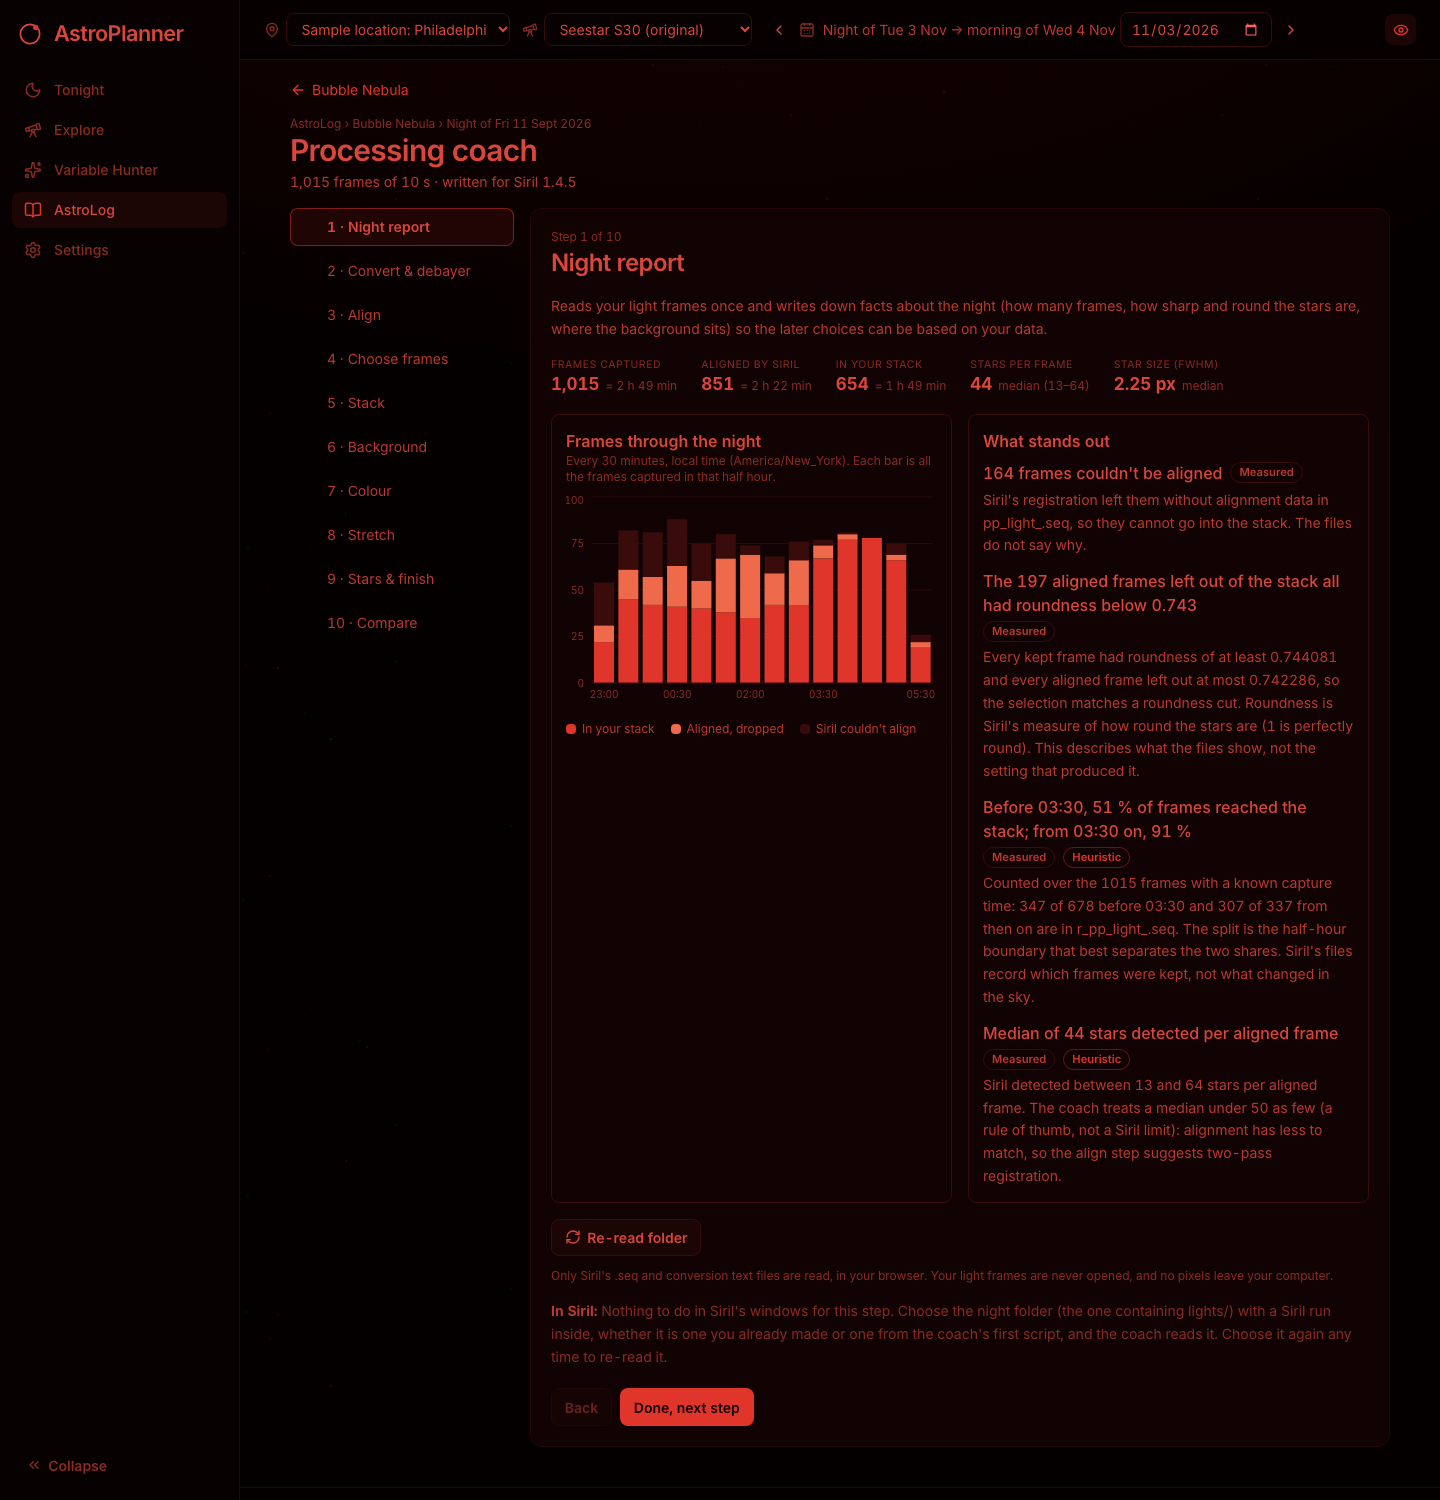
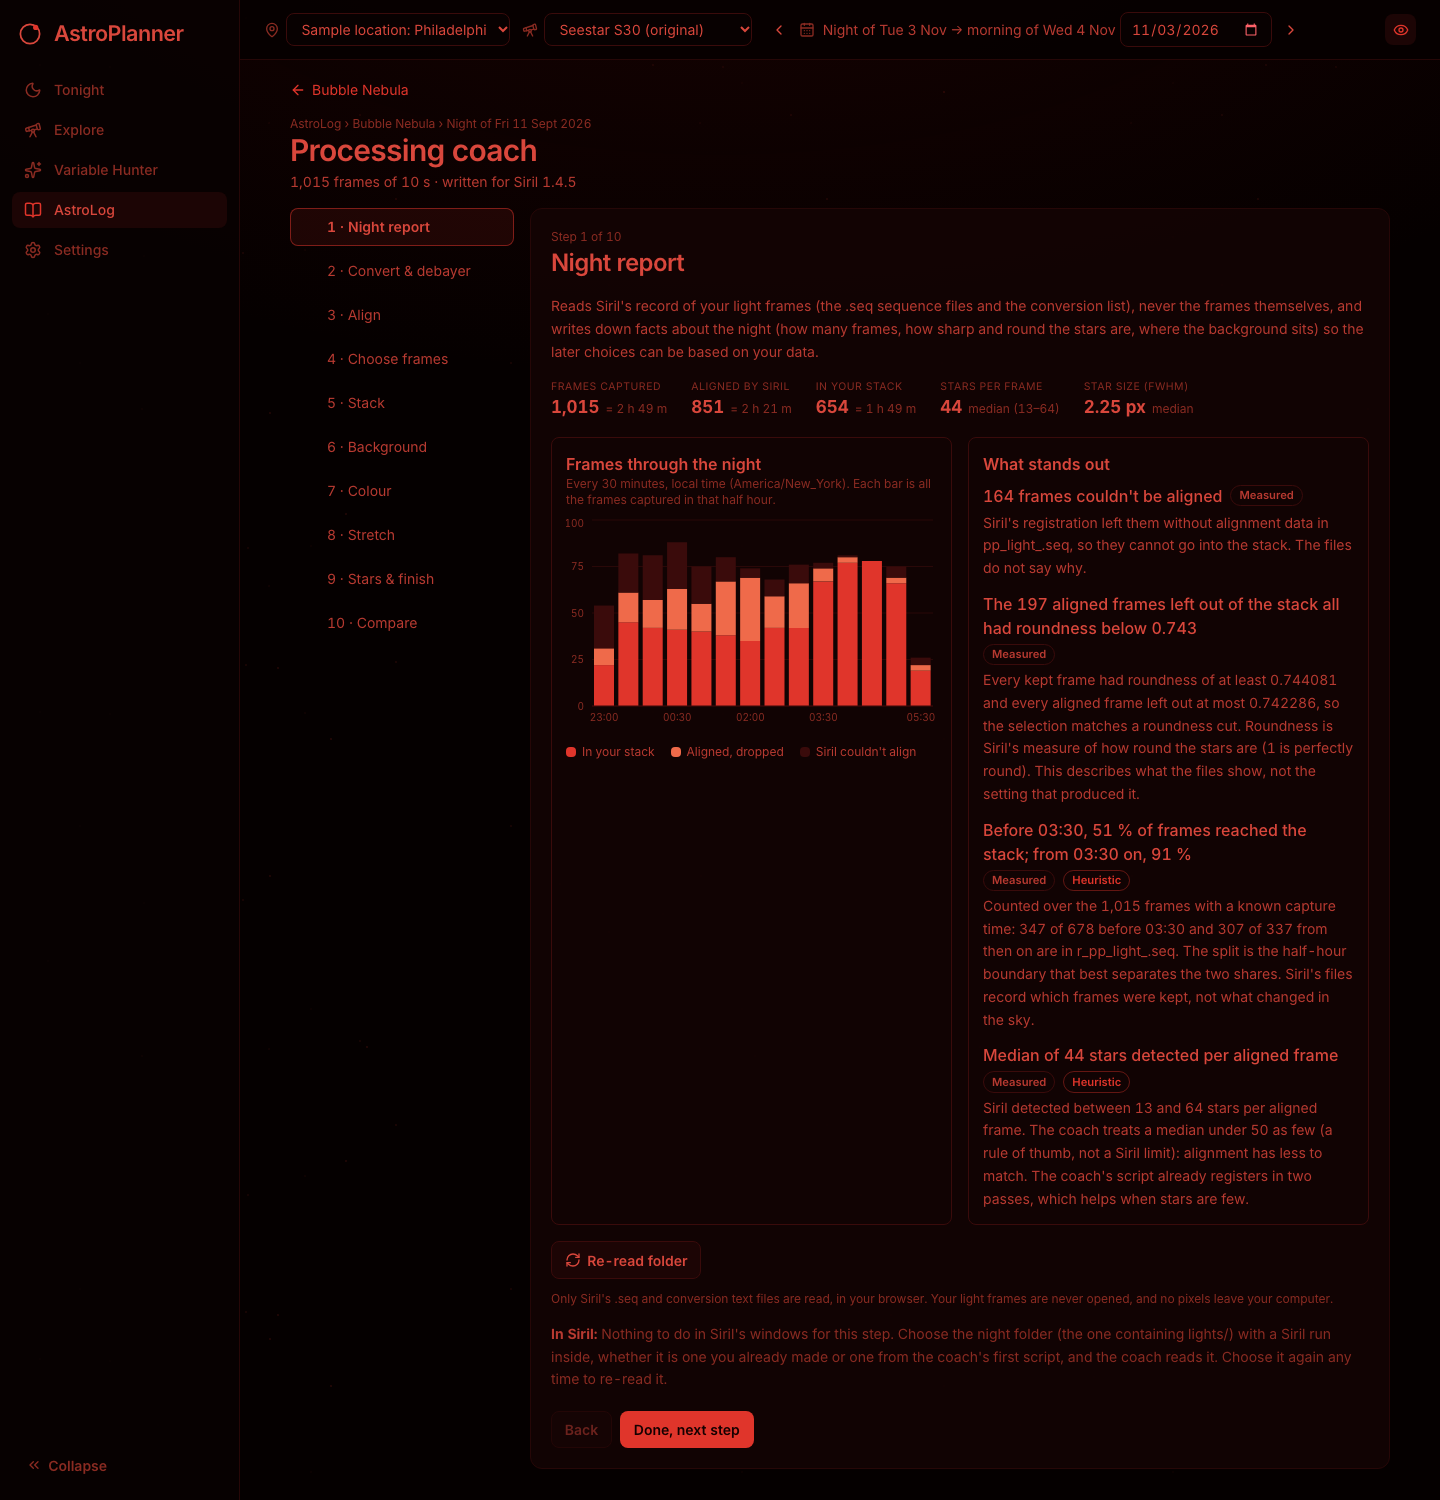
docs(processing): final-review acceptance evidence, re-shot screenshots; thousands separators in option notes
Acceptance 2b and 3 on the developer's process-coach/ run recorded in PROGRESS.md and
docs/PROCESSING.md (report vs awk counts; Siril STACKCNT equals round80/wfwhm80 kept;
folder restored to STACKCNT 654; lights/ and process/ fingerprints identical).

Changed region(s): [[0.375, 0.184, 0.9375, 0.828], [0.375, 0.7973, 0.9375, 0.9813]]

diff --git a/backend/app/processing/selection.py b/backend/app/processing/selection.py
@@ -90,13 +90,13 @@ def selection_options(
     def seconds(fs: Sequence[FrameStat]) -> float:
         return float(sum(f.exptime_s if f.exptime_s is not None else exptime_s for f in fs))
 
-    over_all = f"Siril's percentage, counted over all {big_n} frames, so it keeps more than {{p}} % of the {n} aligned ones."
+    over_all = f"Siril's percentage, counted over all {big_n:,} frames, so it keeps more than {{p}} % of the {n:,} aligned ones."
     opts: list[SelectionOption] = []
 
     kept = aligned
     opts.append(SelectionOption(
         "all", "Keep every aligned frame", "none", None, None, len(kept), seconds(kept), "measured", False,
-        f"All {n} frames Siril aligned: the most signal, with the softest and least round stars included."))
+        f"All {n:,} frames Siril aligned: the most signal, with the softest and least round stars included."))
 
     if previous_round_cut is not None:
         # Siril keeps a frame when float32(roundness) >= the literal limit, so a frame exactly at the limit can
@@ -110,7 +110,7 @@ def selection_options(
     p = KEEP_PERCENT
     thr = round_threshold(frames, p)
     kept = [f for f in aligned if _roundness(f) > 0 and _roundness(f) >= thr]
-    note = over_all.format(p=p) if big_n != n else f"Siril's {p} % roundness filter over the {n} aligned frames."
+    note = over_all.format(p=p) if big_n != n else f"Siril's {p} % roundness filter over the {n:,} aligned frames."
     opts.append(SelectionOption(
         f"round{p}", f"Roundness filter, {p} %", "round", thr, p, len(kept), seconds(kept), "measured", True,
         f"{note} Resolves to roundness ≥ {thr:g}. The {p} % is a rule of thumb, not a Siril default."))
@@ -120,7 +120,7 @@ def selection_options(
     opts.append(SelectionOption(
         f"wfwhm{p}", f"Star-size filter (weighted FWHM), {p} %", "wfwhm", thr, p, len(kept), seconds(kept),
         "measured", True,
-        f"Siril's {p} % weighted-FWHM filter over the {n} aligned frames (smaller stars are better). Resolves to "
+        f"Siril's {p} % weighted-FWHM filter over the {n:,} aligned frames (smaller stars are better). Resolves to "
         f"weighted FWHM ≤ {thr:.2f} px. The {p} % is a rule of thumb, not a Siril default."))
 
     seen: set[tuple[str, int]] = set()

diff --git a/backend/tests/test_processing_review_fixes.py b/backend/tests/test_processing_review_fixes.py
@@ -159,3 +159,13 @@ def test_time_split_counts_use_thousands_separators():
     ts = next(f for f in rep.findings if f.id == "time_split")
     assert ts.detail.startswith("Counted over the 1,015 frames with a known capture time:")
     assert "1015" not in ts.detail
+
+
+def test_selection_notes_use_thousands_separators():
+    from app.processing.selection import selection_options
+    frames = [FrameStat(n=i + 1, basename=None, utc=None, aligned=i % 6 != 0, kept=None, fwhm=2.0,
+                        wfwhm=3.0 + i / 1000, roundness=0.6 + i / 5000, background=0.01, stars=50)
+              for i in range(1015)]
+    notes = " ".join(o.note for o in selection_options(frames, 10.0, None, None))
+    assert "all 1,015 frames" in notes and "of the 845 aligned ones" in notes
+    assert "1015" not in notes

diff --git a/PROGRESS.md b/PROGRESS.md
@@ -31,13 +31,15 @@ methods and sources: `docs/PROCESSING.md`. Phase 3 was merged on 2026-11-03 (PR 
 | Variable Hunter slot label | changed | "Coming in Phase 4" became "Planned for a later phase" on the star page (the old text was no longer true; the only Phase 1-3 assertion changed) |
 | End-to-end on a synthetic night, desktop + mobile | done | `frontend/e2e/processing.spec.ts`, `backend/scripts/make_synthetic_night.py` |
 | Docs and screenshots | done | `README.md`, `docs/ARCHITECTURE.md`, `docs/PROCESSING.md`, `docs/screenshots/processing-*.png` |
+| Final whole-branch review fixes (12 findings) | done | counts-folder note (`selection_counts`, `scripts.counts_note`), one floored duration format, step-1 wording, 422 on garbled `.seq`, star-fit failure tolerated; `tests/test_processing_review_fixes.py`; report, night-vision and select screenshots re-shot |
 
 ### Commands last run (all passing, 2026-11-03)
 
 ```
-backend:  .venv/bin/python -m pytest -q          → 379 passed, 12 skipped
+backend:  .venv/bin/python -m pytest -q          → 403 passed, 12 skipped
+backend:  ASTROPLANNER_REAL_NIGHT_DIR=… pytest -q tests/test_processing_real_data.py → 5 passed (local only)
 frontend: npm run typecheck                       → ok
-frontend: npm test                                → 121 passed (12 files)
+frontend: npm test                                → 129 passed (12 files)
 frontend: npm run build                           → ok
 frontend: npx playwright test                     → 18 passed (16 earlier + 2 Processing Coach, desktop + mobile)
 ```
@@ -54,6 +56,23 @@ files (dummy coordinates, header-only FITS, Siril-style text).
 - `siril-cli` 1.4.5, coach script 2 (stack, selection "same as last time"): 66 s; `STACKCNT` 654, `LIVETIME` 6540.
   `lights/` and `process/` fingerprints were identical before and after both runs.
 - `process-coach/` now uses 39 GB and is left in place pending the developer's decision.
+- **Acceptance 2b (final review, 2026-11-03): the coach's own run read by the app.** `build_folder` / `night_report` on
+  `process-coach/` (`run_dir="process-coach"`, frame times from the `lights/` headers, the real-data test pattern):
+  1,015 captured / 851 aligned / 654 kept (8,510 s / 6,540 s), 1,015 matched, no kept-mapping error, round cut 0.743.
+  Independent count with `awk` on `process-coach/pp_light_.seq`: 1,015 `I` lines, 1,015 `R1` lines, 851 `R1` lines
+  not all-zero; `r_pp_light_.seq` 654 `I` lines; `light_conversion.txt` 1,015 mappings. Totals match.
+- **Acceptance 3 (final review): the counts step 4 shows are the counts Siril stacks.** Options from the coach folder's own
+  sequence (`selection_options`): `all` 851, `previous` (roundness ≥ 0.743) 654, `round80` 813 (resolves to ≥ 0.652917),
+  `wfwhm80` 681 (≤ 4.63952 px). An `awk`/`sort -g` re-computation of both percentage thresholds gave the same
+  thresholds and counts. Script 2 from `stack_script` for each, run with
+  `siril-cli -d "<night folder>" -s "<full path>/astroplanner-stack-<id>.ssf"` (Siril 1.4.5, exit 0, about 68 s each):
+  `round80` → Siril logged "roundness higher or equal than 0.652917 (813)", stack header `STACKCNT` 813, `LIVETIME` 8130;
+  `wfwhm80` → "below 4.639520", 681 processed, `STACKCNT` 681, `LIVETIME` 6810. Both equal the option's `kept`.
+  Then script 2 for `previous` again: `STACKCNT` 654, `LIVETIME` 6540, 654 `r_pp_light_` files (Siril removes the
+  previous run's `r_` files), so the folder is back in its validated state: `process-coach/` names and sizes, and
+  `pp_light_.seq`, `r_pp_light_.seq` and `light_.seq` byte for byte, are identical to before.
+- Fingerprint of `lights/` and `process/` (`find lights process | xargs stat -f '%N|%z|%m|%HT' | sort`, 4,722 entries)
+  before and after the three script-2 runs: `diff` empty, both SHA-256 `2750a05f…5e72ed`. Nothing new in the night folder.
 - Stack measurement (`coach-measure-2`) on the real Siril stack: FWHM 2.19 px, noise 0.0405 of the brightness range, gradient 0.156,
   residual 0.026, colour 0.999 : 1.000 : 1.001 with "equalized RGB" in the header.
 - UI check in a browser on desktop (1440 px), a 412 px Pixel 7 viewport (no horizontal overflow) and night vision, with this night's
@@ -71,10 +90,13 @@ files (dummy coordinates, header-only FITS, Siril-style text).
 - The background model follows only structure larger than 1/8 of the frame; nebula-sized structure stays in the residual.
 - A neutral colour reading still has the headline "No strong colour cast measured" (the explanation carries the equalized-RGB caveat).
 - The "choice was cleared" notice is not shown after a page reload.
+- Step 4's counts describe the folder that was read; when that is `process/`, script 2 (always `process-coach/`) may
+  keep a different number. The coach says so on step 4, on the stack step and in the script, but it cannot show
+  `process-coach/`'s counts until that folder is chosen.
 - On wide screens the night-report chart card stretches to the findings column's height, leaving empty space under the chart.
 - Not changed in Phase 4: AstroLog's own FITS previews flip every image regardless of `ROWORDER` and have no night-vision image filter (Phase 2).
 - The coach does not use dark, flat or bias frames (it says so).
-- Throwaway test files may remain under `/private/tmp/claude-501/coach-t*`.
+- Throwaway test files may remain under the system temp folder (`coach-t*`, `coach-fw*`: copies of the screenshot database).
 
 ### Phase 4 exit items
 

diff --git a/docs/PROCESSING.md b/docs/PROCESSING.md
@@ -358,5 +358,7 @@ without that folder. Recorded in `PROGRESS.md` with the commands.
 | `siril-cli` 1.4.5, coach script 1 (prepare) | 41 s; 1,015 converted, 851 registered |
 | `siril-cli` 1.4.5, coach script 2 (stack, "same as last time" selection) | 66 s; `STACKCNT` 654, `LIVETIME` 6540 |
 | the developer's `lights/` and `process/` before and after | fingerprints identical (the scripts write only into `process-coach/`) |
+| final review: the app's report on `process-coach/` vs `awk` on its `.seq` | 1,015 / 851 / 654 both ways |
+| final review: script 2 for `round80` / `wfwhm80` from the coach folder's own options | `STACKCNT` 813 / 681, equal to the options' kept counts; `previous` re-run restored `STACKCNT` 654; fingerprints identical |
 | `coach-measure-2` on the real Siril stack | FWHM 2.19 px, noise 0.0405 of the brightness range, gradient 0.156, residual 0.026, colour 0.999 : 1.000 : 1.001 with "equalized RGB" in the header |
 
